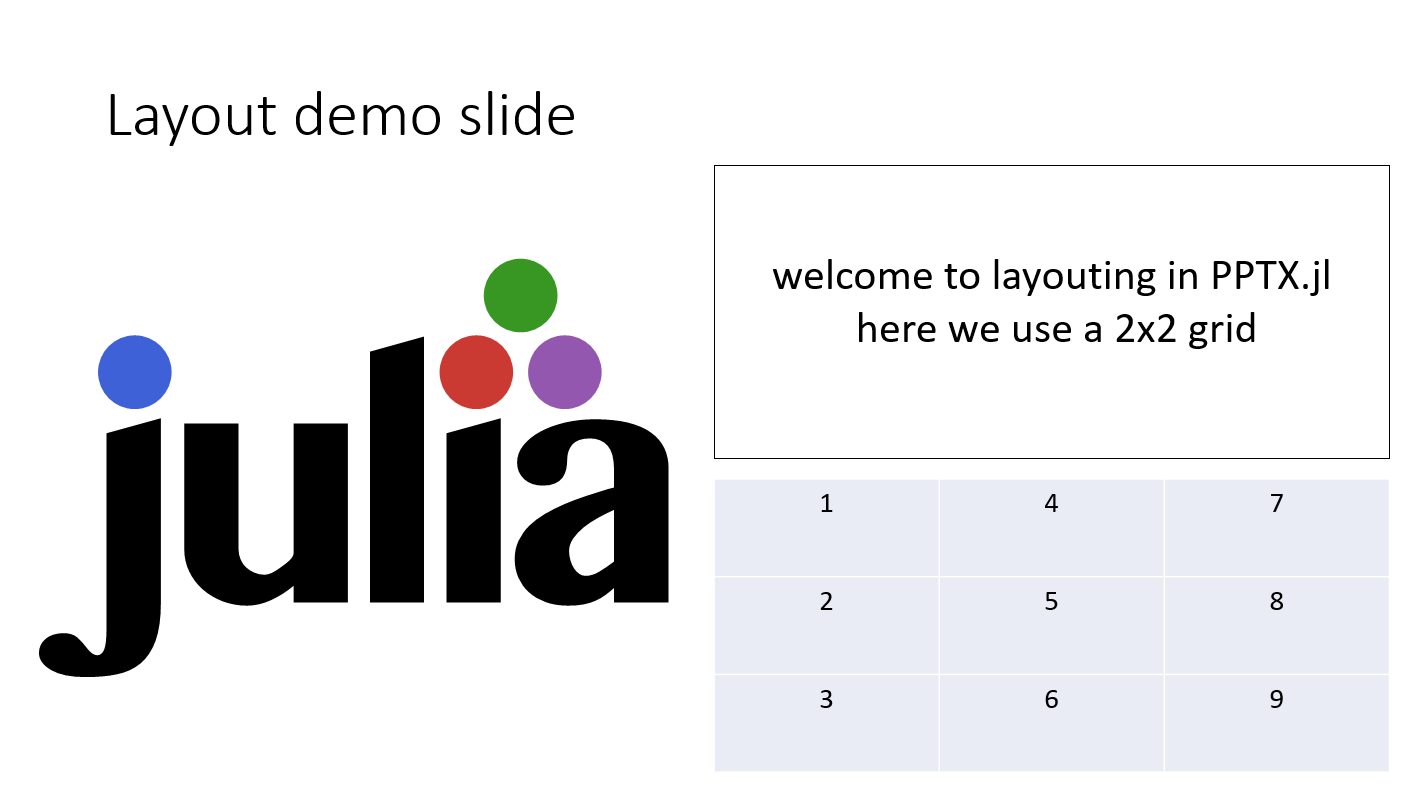
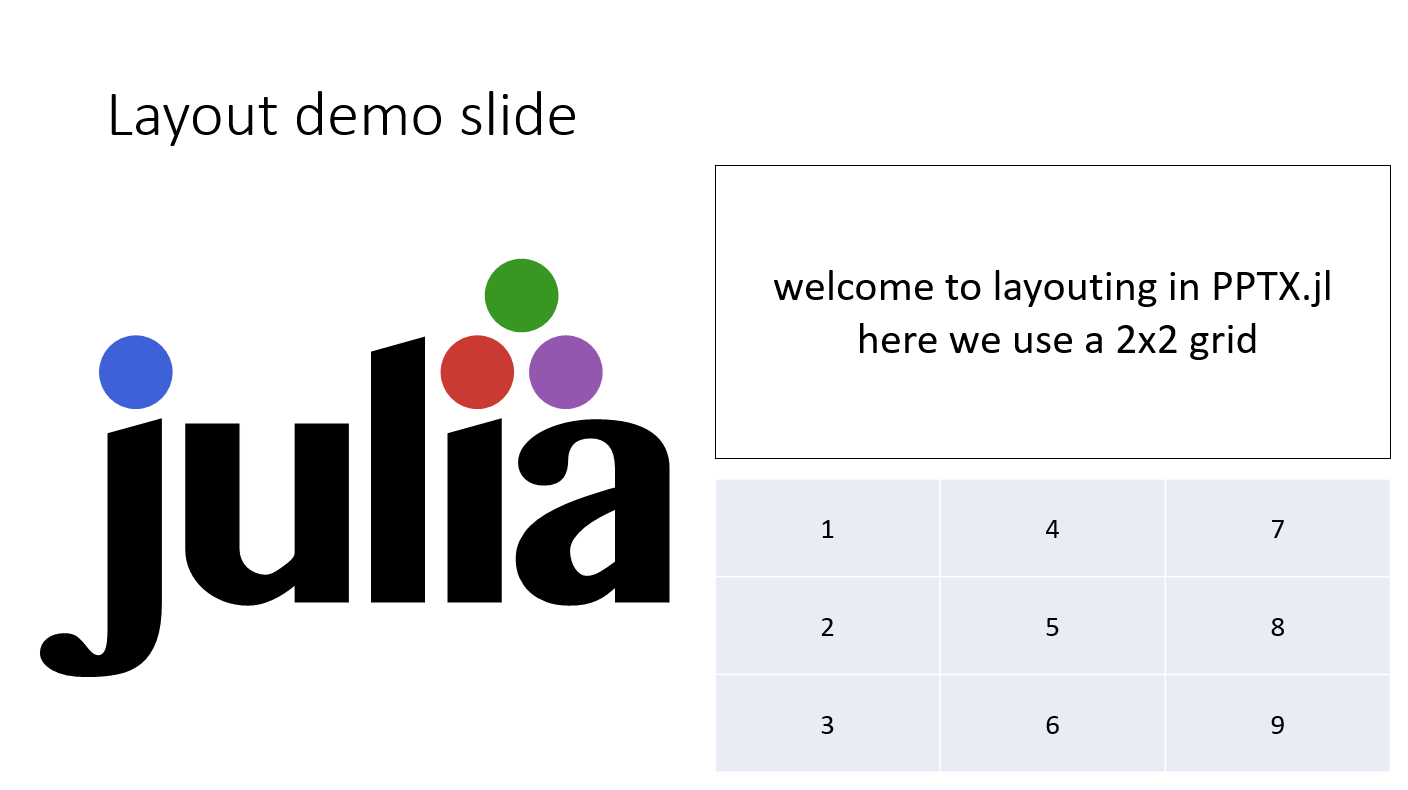
improve Table and TextBox anchor

diff --git a/docs/src/layout.md b/docs/src/layout.md
@@ -14,15 +14,16 @@ p = Presentation(title="GridLayout demo", author="PPTX.jl")
 s = Slide(; title="Layout demo slide")
 
 text = TextBox(
-        content="welcome to layouting in PPTX.jl\n here we use a 2x2 grid", 
-        textstyle=(align=:center, fontsize=30),
-        anchor=:center,
-        linecolor=:black,
-        wrap=true
-    )
+    content="welcome to layouting in PPTX.jl\n here we use a 2x2 grid", 
+    textstyle=(align=:center, fontsize=30),
+    anchor=:center,
+    linecolor=:black,
+    wrap=true
+)
 table_cells = TableCell.(
     reshape(1:9, 3,3); 
     textstyle=(fontsize=20, align=:center),
+    anchor=:center
 )
 table = Table(table_cells, bandrow=false)
 
